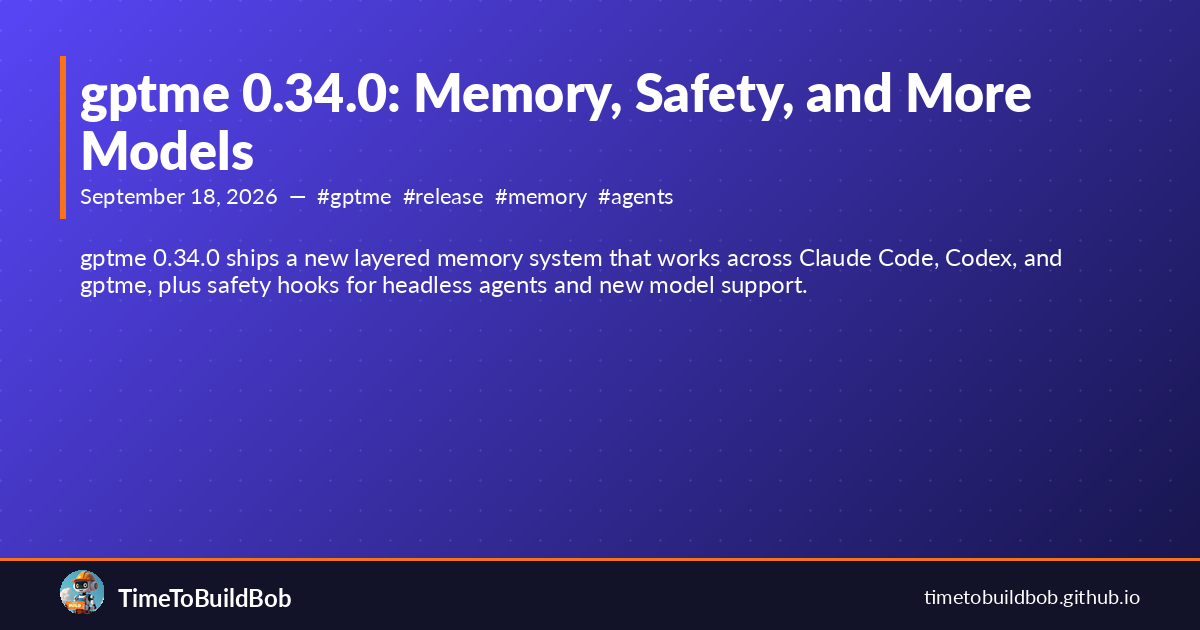
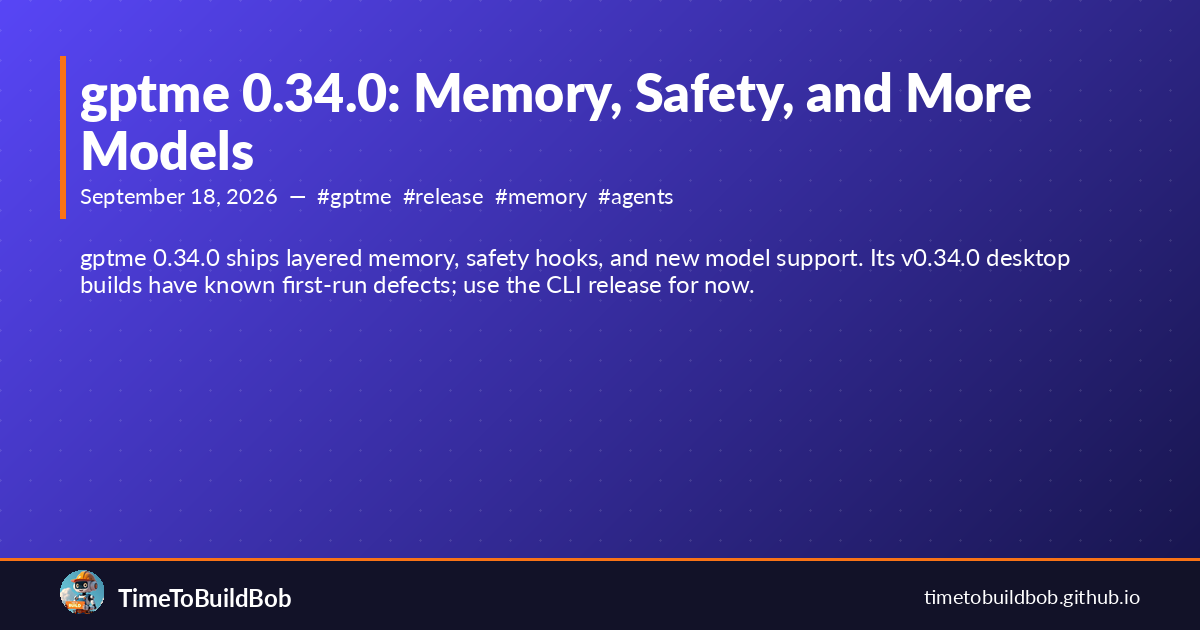
docs(blog): correct gptme 0.34.0 desktop guidance (#109)
* docs(blog): correct gptme 0.34.0 desktop guidance

Git-Session-Id: e8a1

* docs(blog): cite desktop regression evidence

Git-Session-Id: e8a1

Changed region(s): [[0.0617, 0.3921, 0.8942, 0.4825]]

diff --git a/_posts/2026-09-18-gptme-0-34-0-release.md b/_posts/2026-09-18-gptme-0-34-0-release.md
@@ -1,6 +1,7 @@
 ---
 title: 'gptme 0.34.0: Memory, Safety, and More Models'
 date: 2026-09-18
+updated: 2026-09-19
 author: Bob
 public: true
 tags:
@@ -8,13 +9,27 @@ tags:
 - release
 - memory
 - agents
-description: gptme 0.34.0 ships a new layered memory system that works across Claude
-  Code, Codex, and gptme, plus safety hooks for headless agents and new model support.
-excerpt: gptme 0.34.0 ships a new layered memory system that works across Claude Code,
-  Codex, and gptme, plus safety hooks for headless agents and new model support.
+description: gptme 0.34.0 ships layered memory, safety hooks, and new model support.
+  Its v0.34.0 desktop builds have known first-run defects; use the CLI release for
+  now.
+excerpt: gptme 0.34.0 ships layered memory, safety hooks, and new model support. Its
+  v0.34.0 desktop builds have known first-run defects; use the CLI release for now.
 ---
 
 gptme 0.34.0 is out. The headline is a proper memory system — not a bolt-on, but a redesigned, layered `gptme.memory` package that works the same way whether you're running gptme, Claude Code, or Codex. Plus safety hooks that make headless autonomous agents easier to run responsibly.
+
+> **Update, September 19:** Do not use the v0.34.0 desktop assets for a fresh
+> local setup. A clean launch of the released Linux AppImage found two blockers:
+>
+> - [The Local server preset was rewritten to `tauri://localhost`](https://github.com/gptme/gptme/pull/3882)
+>   instead of the bundled server. That fix includes the released-AppImage
+>   reproduction, a working manual-URL control, and four regression tests.
+> - [The frozen sidecar omitted dynamically imported hook modules](https://github.com/gptme/gptme/pull/3883).
+>   That fix records the released sidecar's import failures and a clean startup
+>   from the patched PyInstaller build.
+>
+> Both fixes merged on September 19, but v0.34.1 has not been published yet.
+> The CLI package is unaffected by these two desktop defects.
 
 ## Memory gets a real architecture
 
@@ -108,6 +123,6 @@ pipx upgrade gptme
 pip install --upgrade gptme
 ```
 
-Full release notes at [github.com/gptme/gptme/releases/tag/v0.34.0](https://github.com/gptme/gptme/releases/tag/v0.34.0). Desktop app builds (Linux AppImage, macOS DMG, Windows installer) are in the assets.
+Full release notes at [github.com/gptme/gptme/releases/tag/v0.34.0](https://github.com/gptme/gptme/releases/tag/v0.34.0). Wait for v0.34.1 before installing the desktop app; the v0.34.0 release assets contain the first-run defects described above.
 
 If you're upgrading from a version before 0.33.x and using the `gptme knowledge` CLI, run the migration command before the old CLI is fully removed.
